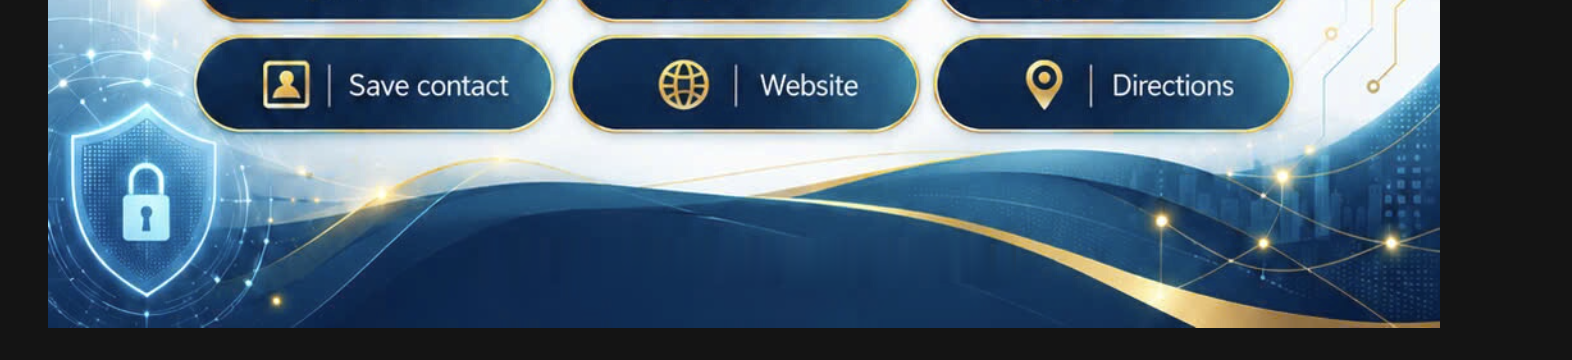
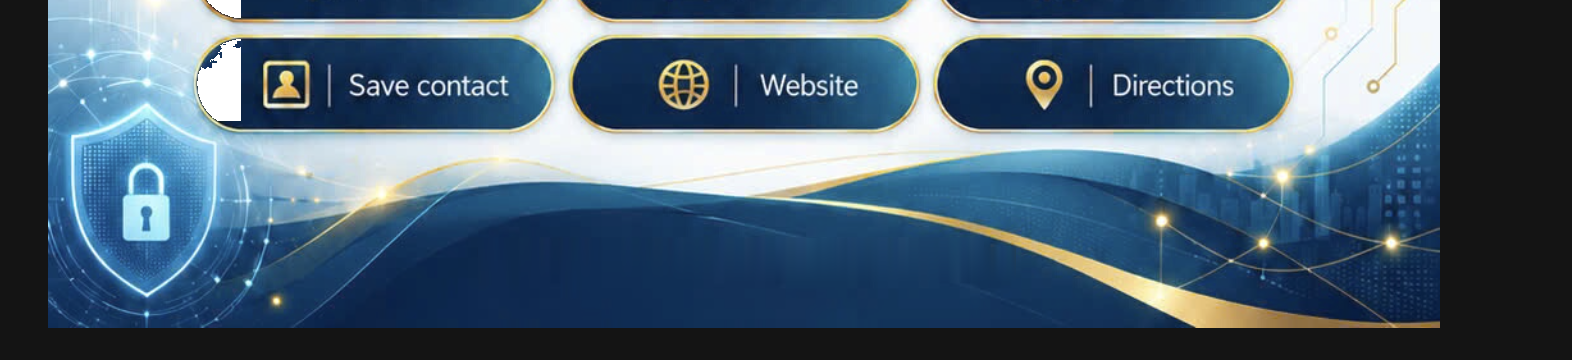
style: update professional card cyber magazine footer layout and typography

Changed region(s): [[0.1247, 0.1222, 0.1559, 0.3361], [0.1247, 0.0, 0.1559, 0.0611]]

diff --git a/src/client/components/card/professional-card.css b/src/client/components/card/professional-card.css
@@ -742,13 +742,50 @@
 
 /* Match the original footer lettering with crisp DOM text and scale down the reference footer on laptop view. */
 .qtm-professional-card[data-reference-footer] .anm-profile-motto {
+  position: absolute;
+  left: 0;
+  right: 0;
+  bottom: clamp(10px, 2.6cqw, 16px);
+  margin: 0 auto;
+  text-align: center;
   font-family: var(--font-jakarta, Arial), Arial, Helvetica, sans-serif;
-  font-size: clamp(10.5px, calc(var(--qtm-unit, 1cqw) * 2.15), 13.5px);
-  font-weight: 500;
-  letter-spacing: .18em;
-  color: #f0f8ff;
-  text-shadow: 0 1px 3px rgba(6, 22, 48, 0.78);
+  font-size: clamp(10px, calc(var(--qtm-unit, 1cqw) * 2.1), 13.5px);
+  font-weight: 600;
+  letter-spacing: .2em;
+  color: #ffffff;
+  text-shadow: 0 1px 4px rgba(0, 12, 30, 0.95);
   white-space: nowrap;
+  pointer-events: none;
+  z-index: 2;
+}
+
+/* Ensure action buttons never collide with footer shield on responsive/mobile */
+.qtm-cyber-magazine .card-actions {
+  margin-bottom: clamp(8px, calc(var(--qtm-unit, 1cqw) * 2), 16px);
+}
+
+.qtm-cyber-magazine .qtm-profile-footer {
+  min-height: clamp(60px, calc(var(--qtm-unit, 1cqw) * 16), 85px);
+  margin-top: auto;
+}
+
+@media (max-width: 959px) {
+  /* Fill up the footer on mobile so there is no empty void, and add the missing blue base */
+  .qtm-cyber-magazine svg[data-cyber-footer="reference"] {
+    transform: scaleY(1.32) scaleX(1.04);
+    transform-origin: center bottom;
+  }
+  .qtm-professional-card.qtm-cyber-magazine::after {
+    content: "";
+    position: absolute;
+    left: 0;
+    right: 0;
+    bottom: 0;
+    height: clamp(20px, 5.5cqw, 32px);
+    background: #143158;
+    z-index: 0;
+    pointer-events: none;
+  }
 }
 
 .qtm-desktop-stage svg[data-cyber-footer="reference"] {
@@ -763,6 +800,10 @@
 }
 .qtm-desktop-stage svg[data-cyber-footer="reference"] [data-cyber-footer-slice="right"] {
   transform: matrix(0.68, 0, 0, 1, 445.44, 0);
+}
+.qtm-desktop-stage .qtm-professional-card[data-reference-footer] .anm-profile-motto {
+  bottom: 10px;
+  font-size: 11px;
 }
 
 @media (min-width: 960px) {
@@ -780,7 +821,8 @@
     transform: matrix(0.68, 0, 0, 1, 445.44, 0);
   }
   .qtm-public-profile .qtm-professional-card[data-reference-footer] .anm-profile-motto {
-    font-size: clamp(12px, 0.95vw, 14px);
-    letter-spacing: .2em;
+    bottom: clamp(10px, 1.1vw, 16px);
+    font-size: clamp(11.5px, 0.95vw, 14px);
+    letter-spacing: .22em;
   }
 }
